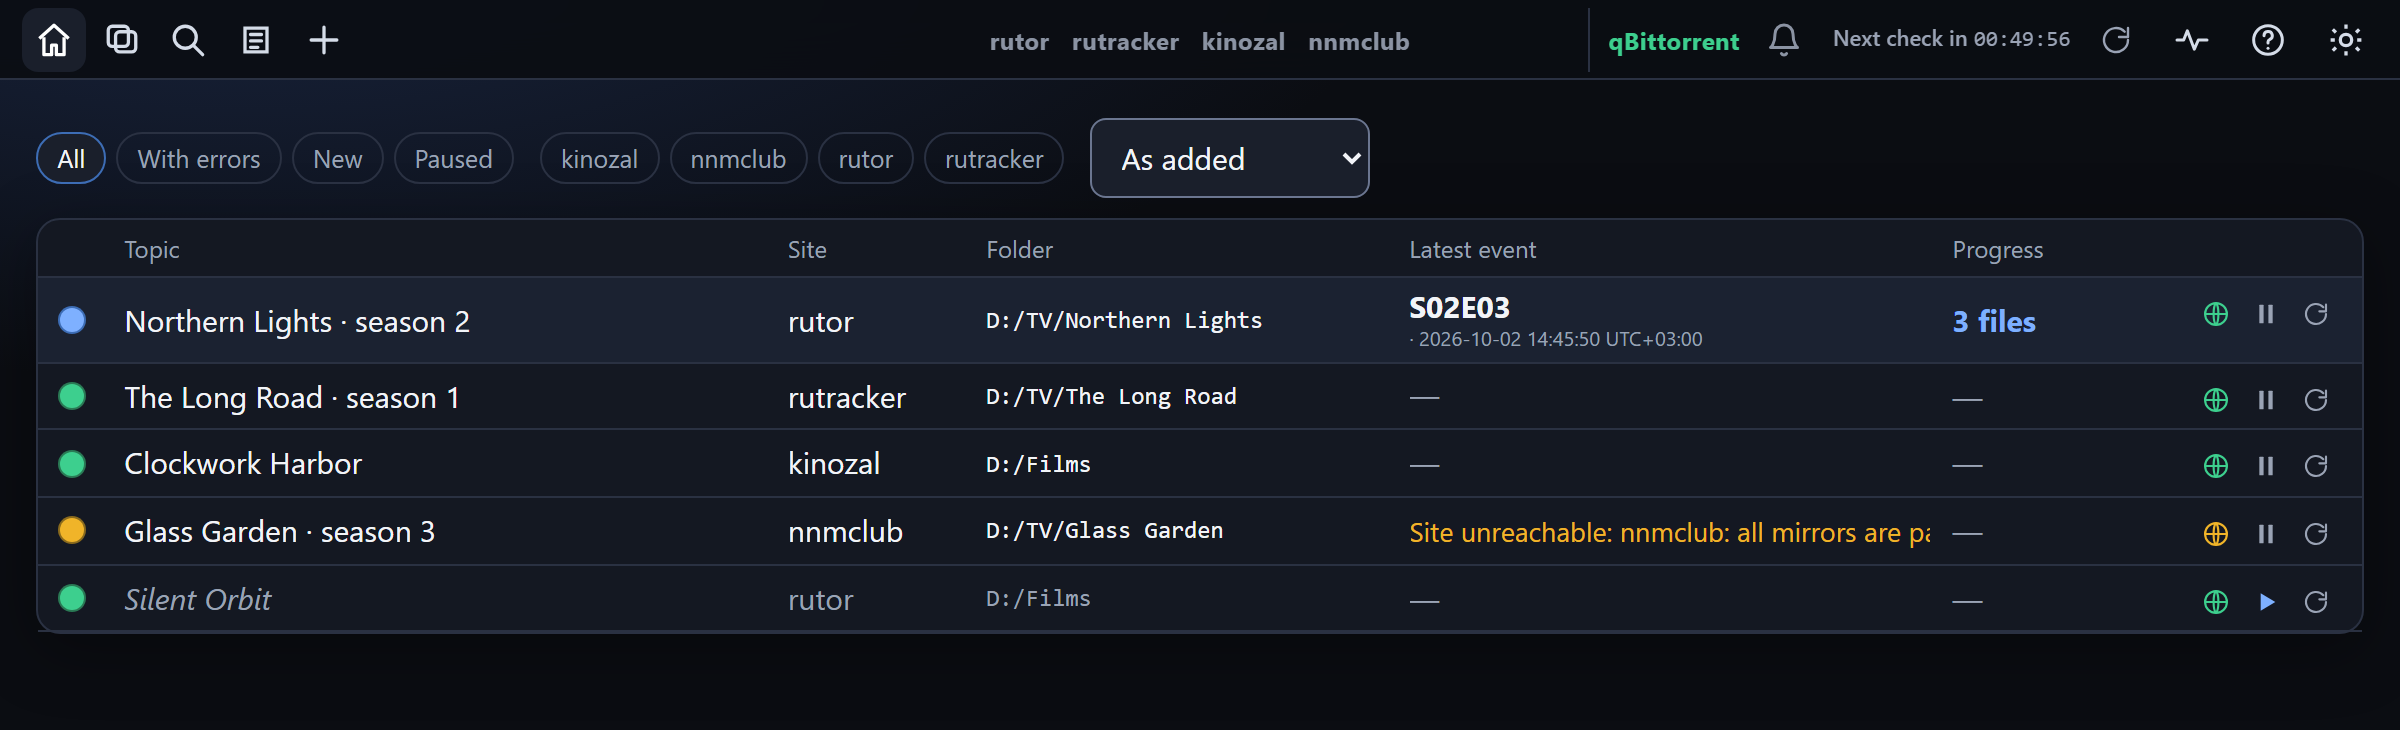
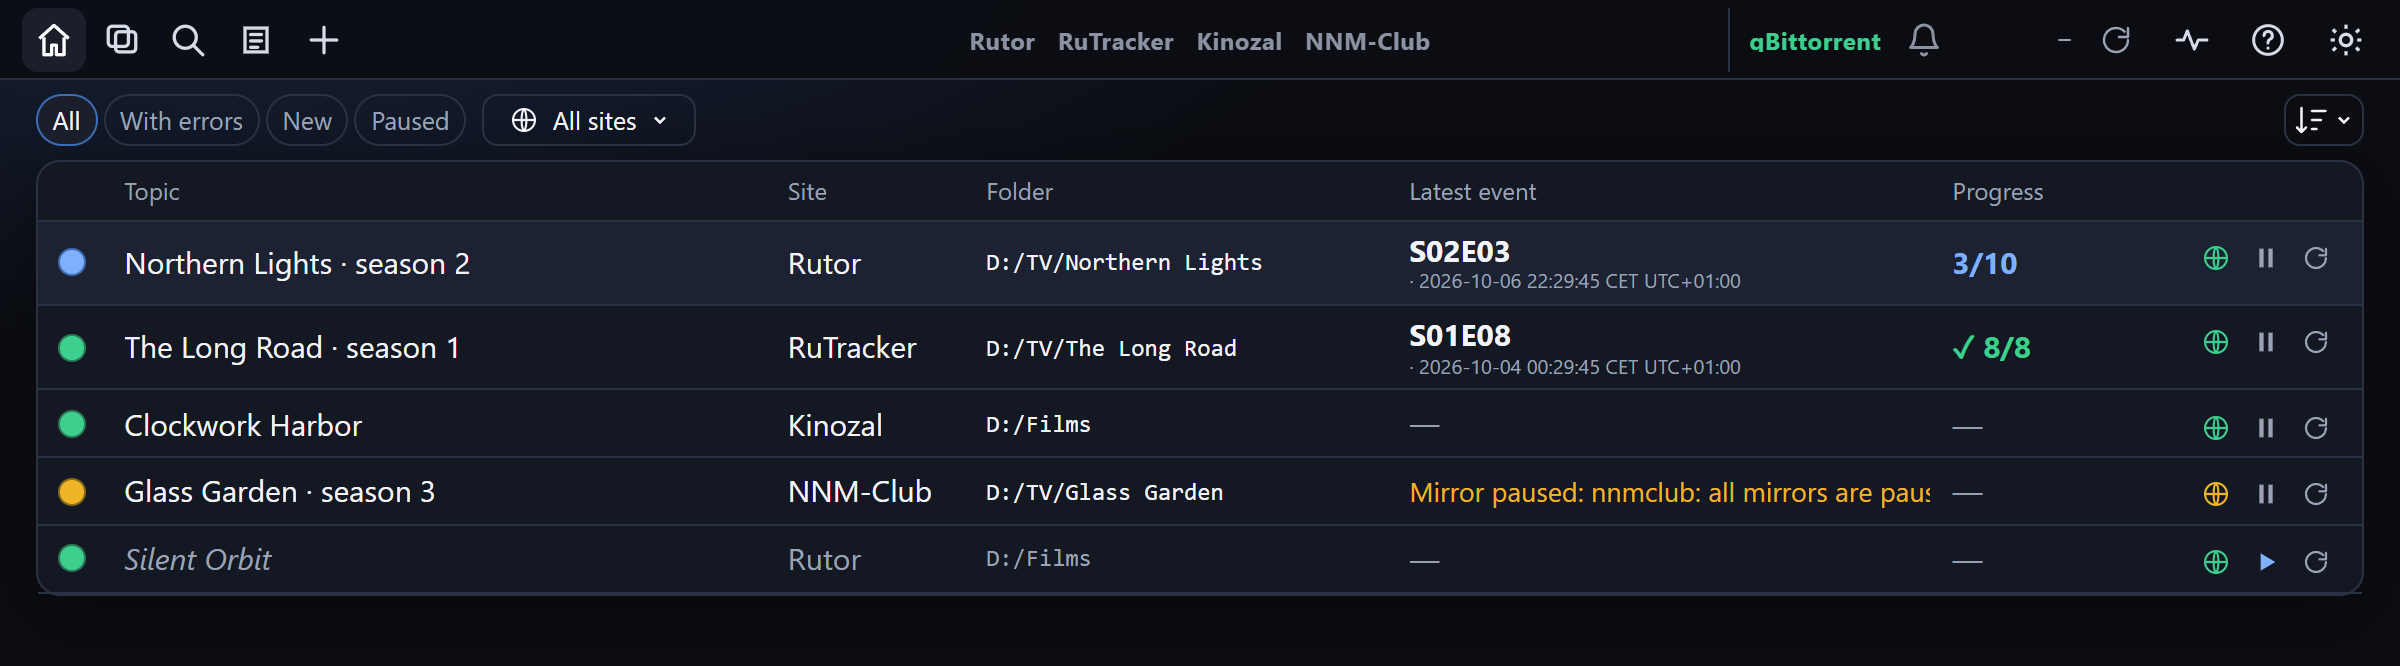
scripts: take the README pictures from a throwaway install
The Home pictures in docs/images were taken by hand and still showed
the site buttons and the sort select of 1.22, before the site menu,
the sort icon and the site titles. scripts/screenshots.py makes a new
install in the temp folder (TOW_ROOT, config.example.yaml, a fresh key,
made-up topics, history and health, one made-up time zone), serves it
on port 18893, takes Home at 1200 px and scale 2 in English and Russian,
dark and light, cut below the list, then stops the server and removes
the folder. It uses Playwright's Chromium, one an earlier Playwright
left, or Chrome/Edge, and exits 2 without a browser.

The four pictures are taken again with it on this tree and checked by
eye.

diff --git a/scripts/screenshots.py b/scripts/screenshots.py
@@ -1,0 +1,283 @@
+"""The README pictures: Home of a throwaway install with made-up topics, in English and Russian,
+dark and light, 1200 px wide at scale 2.
+
+    uv run --frozen --with playwright python scripts/screenshots.py [--port 18893] [--keep]
+
+The install is a new folder in the temp folder (TOW_ROOT), with config.example.yaml, a fresh
+master key and synthetic topics, history and health only - never a real install, never port
+8787. `tow serve` runs on --port and is stopped at the end; the folder is removed unless --keep.
+Writes docs/images/home-{en,ru}-{dark,light}.png. Playwright needs a Chromium it already has
+(`playwright install chromium` downloads one); without it the script says so and exits 2.
+"""
+
+from __future__ import annotations
+
+import argparse
+import os
+import shutil
+import subprocess
+import sys
+import tempfile
+import time
+import urllib.request
+from datetime import UTC, datetime, timedelta, timezone
+from pathlib import Path
+from typing import Any
+
+REPO = Path(__file__).resolve().parents[1]
+IMAGES = REPO / "docs" / "images"
+WIDTH = 1200
+
+# Made-up topics: one per state the Home page shows (new, done, fine, site unreachable, paused).
+TOPICS: dict[str, list[tuple[str, str, str]]] = {
+    # (title, link, folder)
+    "en": [
+        ("Northern Lights · season 2", "https://rutor.info/torrent/1234561", "D:/TV/Northern Lights"),
+        ("The Long Road · season 1", "https://rutracker.org/forum/viewtopic.php?t=1234562", "D:/TV/The Long Road"),
+        ("Clockwork Harbor", "https://kinozal.tv/details.php?id=1234563", "D:/Films"),
+        ("Glass Garden · season 3", "https://nnmclub.to/forum/viewtopic.php?t=1234564", "D:/TV/Glass Garden"),
+        ("Silent Orbit", "https://rutor.info/torrent/1234565", "D:/Films"),
+    ],
+    "ru": [
+        ("Северное сияние · сезон 2", "https://rutor.info/torrent/1234561", "D:/Сериалы/Северное сияние"),
+        ("Долгая дорога · сезон 1", "https://rutracker.org/forum/viewtopic.php?t=1234562", "D:/Сериалы/Долгая дорога"),
+        ("Часовая гавань", "https://kinozal.tv/details.php?id=1234563", "D:/Фильмы"),
+        ("Стеклянный сад · сезон 3", "https://nnmclub.to/forum/viewtopic.php?t=1234564", "D:/Сериалы/Стеклянный сад"),
+        ("Тихая орбита", "https://rutor.info/torrent/1234565", "D:/Фильмы"),
+    ],
+}
+
+
+def _iso(moment: datetime) -> str:
+    """A fixed made-up offset: the pictures never show this computer's time zone."""
+    return moment.astimezone(timezone(timedelta(hours=1))).isoformat(timespec="seconds")
+
+
+def seed(language: str) -> None:
+    """Write the synthetic topics, their history and a healthy client into the install."""
+    from tow.store import save_download_history, save_state
+
+    now = datetime.now(UTC)
+    topics: list[dict[str, Any]] = []
+    for number, (title, url, folder) in enumerate(TOPICS[language], 1):
+        topics.append(
+            {
+                "id": f"topic-{number}",
+                "title": title,
+                "url": url,
+                "save_path": folder,
+                "hash": f"{number:040X}",
+                "client_id": "default",
+                "last_ok": True,
+                "last_check": _iso(now - timedelta(minutes=10)),
+            }
+        )
+    topics[0]["last_changed"] = True
+    topics[3].update(
+        last_ok=False,
+        last_error="nnmclub: all mirrors are paused",
+        last_error_code="mirrors.all_paused",
+        last_error_params={"tracker": "nnmclub"},
+        last_error_class="frozen",
+    )
+    topics[4]["paused"] = True
+    save_state(
+        {
+            "topics": topics,
+            "mirrors": {},
+            "health": {"qbit_ok": True, "check_ok": True, "at_ts": int(time.time()) - 600},
+        }
+    )
+    episode = {"kind": "episode_completed", "label": "S02E03", "at": _iso(now - timedelta(hours=2))}
+    season = {"kind": "torrent_completed", "label": "S01E08", "at": _iso(now - timedelta(days=3))}
+    save_download_history(
+        {
+            "schema_version": 1,
+            "topics": {
+                "topic-1": {
+                    "expected": {"kind": "episodes", "total": 10, "confidence": "high"},
+                    "summary": {"completed": 3, "expected": 10, "is_complete": False},
+                    "last_event": episode,
+                    "items": {
+                        f"episode:s02e0{n}": {
+                            "label": f"S02E0{n}",
+                            "status": "completed",
+                            "completed_observed_at": episode["at"],
+                        }
+                        for n in (1, 2, 3)
+                    },
+                },
+                "topic-2": {
+                    "expected": {"kind": "episodes", "total": 8, "confidence": "high"},
+                    "summary": {"completed": 8, "expected": 8, "is_complete": True},
+                    "last_event": season,
+                    "items": {
+                        f"episode:s01e0{n}": {
+                            "label": f"S01E0{n}",
+                            "status": "completed",
+                            "completed_observed_at": season["at"],
+                        }
+                        for n in range(1, 9)
+                    },
+                },
+            },
+        }
+    )
+
+
+def _seed_in(env: dict[str, str], language: str) -> None:
+    """Seed in a child with the throwaway TOW_ROOT, so this process never opens TOW's files."""
+    subprocess.run([sys.executable, __file__, "--seed", language], env=env, check=True)
+
+
+def wait_for(url: str, seconds: float = 60) -> None:
+    deadline = time.monotonic() + seconds
+    while time.monotonic() < deadline:
+        try:
+            with urllib.request.urlopen(url, timeout=2) as answer:
+                if answer.status == 200:
+                    return
+        except OSError:
+            time.sleep(0.5)
+    raise SystemExit(f"TOW did not answer at {url} within {seconds:.0f} s")
+
+
+def _browsers() -> list[dict[str, Any]]:
+    """Playwright's own Chromium, else one an earlier Playwright left, else Chrome or Edge."""
+    found: list[dict[str, Any]] = [{}]
+    home = Path.home()
+    caches = [
+        home / "AppData/Local/ms-playwright",
+        home / ".cache/ms-playwright",
+        home / "Library/Caches/ms-playwright",
+    ]
+    if os.environ.get("PLAYWRIGHT_BROWSERS_PATH"):
+        caches.insert(0, Path(os.environ["PLAYWRIGHT_BROWSERS_PATH"]))
+    names = ("chrome-win64/chrome.exe", "chrome-win/chrome.exe", "chrome-linux/chrome", "chrome-linux64/chrome")
+    for cache in caches:
+        for folder in sorted(cache.glob("chromium-*"), reverse=True):
+            found += [{"executable_path": str(folder / name)} for name in names if (folder / name).is_file()]
+    found += [{"channel": "chrome"}, {"channel": "msedge"}]
+    return found
+
+
+def shoot(base: str, out: Path, env: dict[str, str]) -> list[Path]:
+    try:
+        from playwright.sync_api import Error, sync_playwright
+    except ImportError as missing:
+        raise SystemExit(
+            "Playwright is missing: uv run --frozen --with playwright python scripts/screenshots.py"
+        ) from missing
+    written = []
+    with sync_playwright() as playwright:
+        browser = None
+        for options in _browsers():
+            try:
+                browser = playwright.chromium.launch(**options)
+                break
+            except Error:
+                continue
+        if browser is None:
+            print("no Chromium for Playwright (playwright install chromium); no pictures taken", file=sys.stderr)
+            sys.exit(2)
+        for language, locale in (("en", "en-US"), ("ru", "ru-RU")):
+            _seed_in(env, language)
+            for scheme in ("dark", "light"):
+                context = browser.new_context(
+                    viewport={"width": WIDTH, "height": 800},
+                    device_scale_factor=2,
+                    locale=locale,
+                    color_scheme=scheme,
+                    timezone_id="Europe/Berlin",
+                )
+                page = context.new_page()
+                page.goto(base + "/", wait_until="networkidle")
+                page.add_style_tag(
+                    content="*, *::before, *::after { transition: none !important; caret-color: transparent; }"
+                )
+                path = out / f"home-{language}-{scheme}.png"
+                # The frame ends below the list: no empty page, no floating version badge.
+                bottom = page.evaluate("Math.ceil(document.querySelector('main').getBoundingClientRect().bottom)")
+                height = min(int(bottom) + 16, page.viewport_size["height"] if page.viewport_size else 800)
+                page.screenshot(path=str(path), clip={"x": 0, "y": 0, "width": WIDTH, "height": height})
+                written.append(path)
+                context.close()
+        browser.close()
+    return written
+
+
+def main(argv: list[str] | None = None) -> int:
+    parser = argparse.ArgumentParser(description=__doc__.splitlines()[0])
+    parser.add_argument("--port", type=int, default=18893)
+    parser.add_argument("--out", type=Path, default=IMAGES)
+    parser.add_argument("--keep", action="store_true", help="keep the throwaway install")
+    parser.add_argument("--seed", choices=sorted(TOPICS), help=argparse.SUPPRESS)  # run inside TOW_ROOT
+    args = parser.parse_args(argv)
+    if args.seed:
+        if "tow-screens-" not in os.environ.get("TOW_ROOT", ""):
+            parser.error("--seed writes only into the throwaway install this script makes")
+        seed(args.seed)
+        return 0
+    if args.port == 8787:
+        parser.error("never port 8787: a real TOW may run there")
+
+    root = Path(tempfile.mkdtemp(prefix="tow-screens-"))
+    env = {key: value for key, value in os.environ.items() if not key.startswith("TOW_")}
+    env.update(TOW_ROOT=str(root), PYTHONUTF8="1", TZ="CET-1")  # one made-up zone, not this computer's
+    config = (REPO / "config.example.yaml").read_text(encoding="utf-8")
+    (root / "config.yaml").write_text(config + "\nsetup_done: true\nlanguage: auto\n", encoding="utf-8")
+    server = None
+    log = None
+    try:
+        subprocess.run([sys.executable, "-m", "tow", "keys", "ensure"], env=env, check=True, capture_output=True)
+        _seed_in(env, "en")
+        log = (root / "serve.log").open("w", encoding="utf-8")
+        server = subprocess.Popen(
+            [
+                sys.executable,
+                "-m",
+                "tow",
+                "serve",
+                "--host",
+                "127.0.0.1",
+                "--port",
+                str(args.port),
+                "--parent-pid",
+                str(os.getpid()),
+            ],
+            env=env,
+            stdout=log,
+            stderr=subprocess.STDOUT,
+        )
+        base = f"http://127.0.0.1:{args.port}"
+        wait_for(base + "/healthz")
+        args.out.mkdir(parents=True, exist_ok=True)
+        for path in shoot(base, args.out, env):
+            print(path.relative_to(REPO) if path.is_relative_to(REPO) else path)
+    finally:
+        if server is not None:
+            server.terminate()
+            try:
+                server.wait(timeout=15)
+            except subprocess.TimeoutExpired:
+                server.kill()
+                server.wait()
+        if log is not None:
+            log.close()
+        if args.keep:
+            print(f"kept {root}")
+        else:
+            # On Windows the venv's python.exe starts the real interpreter as its child, which may
+            # hold the log a moment longer than the process we stopped.
+            for _ in range(20):
+                shutil.rmtree(root, ignore_errors=True)
+                if not root.exists():
+                    break
+                time.sleep(0.5)
+            else:
+                print(f"could not remove {root}", file=sys.stderr)
+    return 0
+
+
+if __name__ == "__main__":
+    sys.exit(main())
